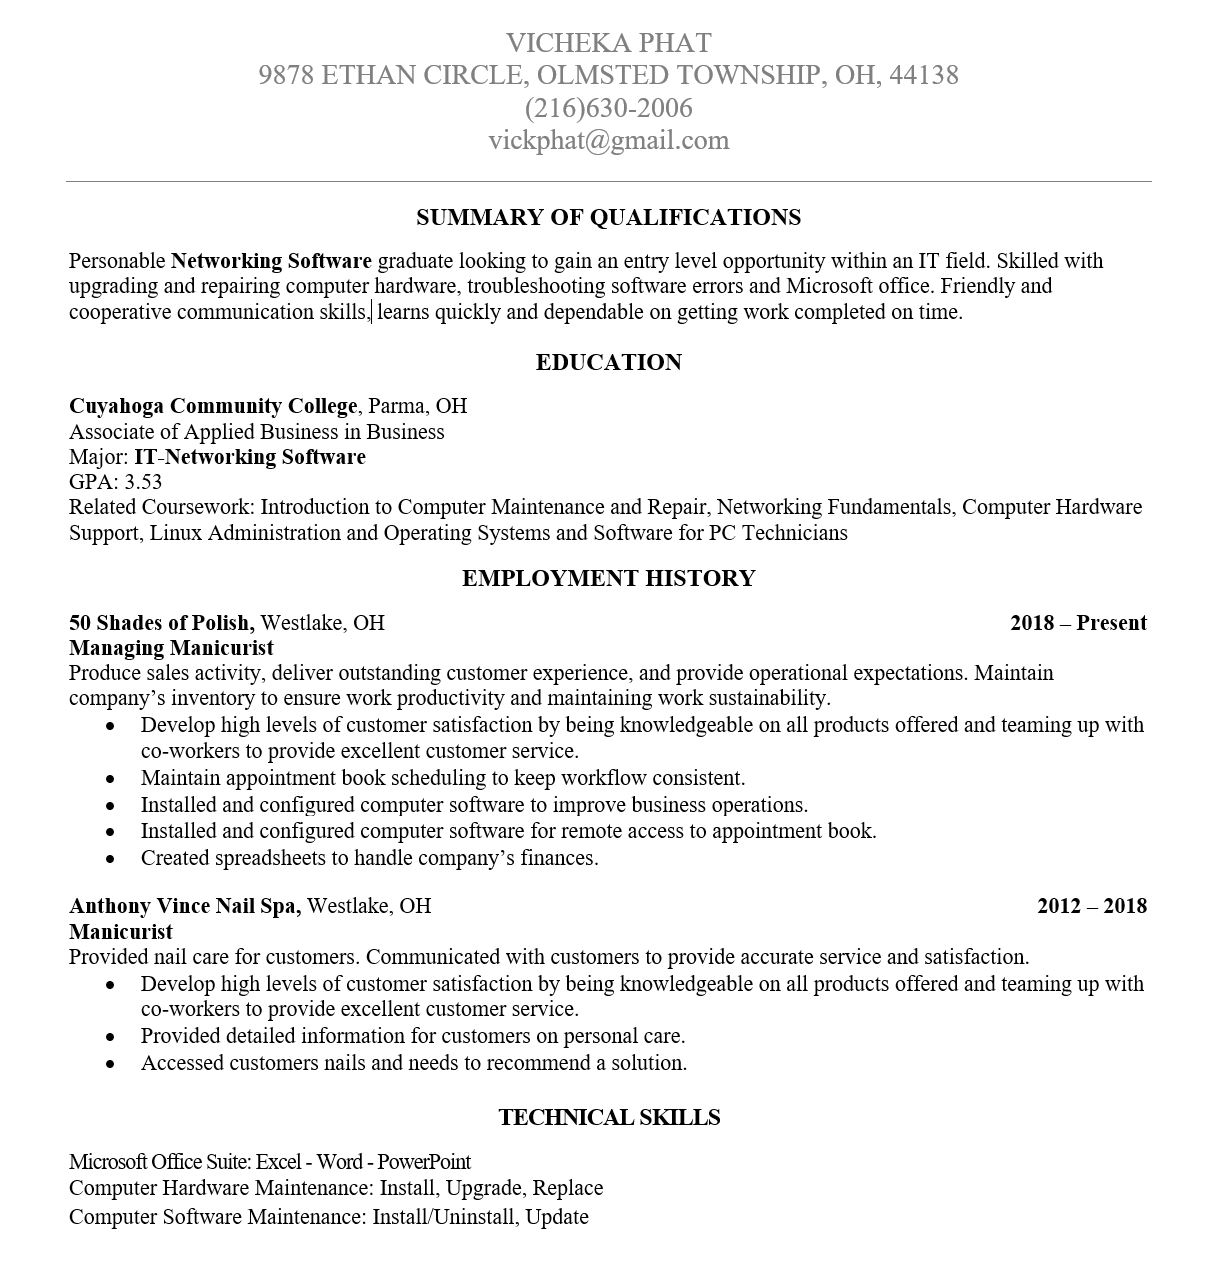
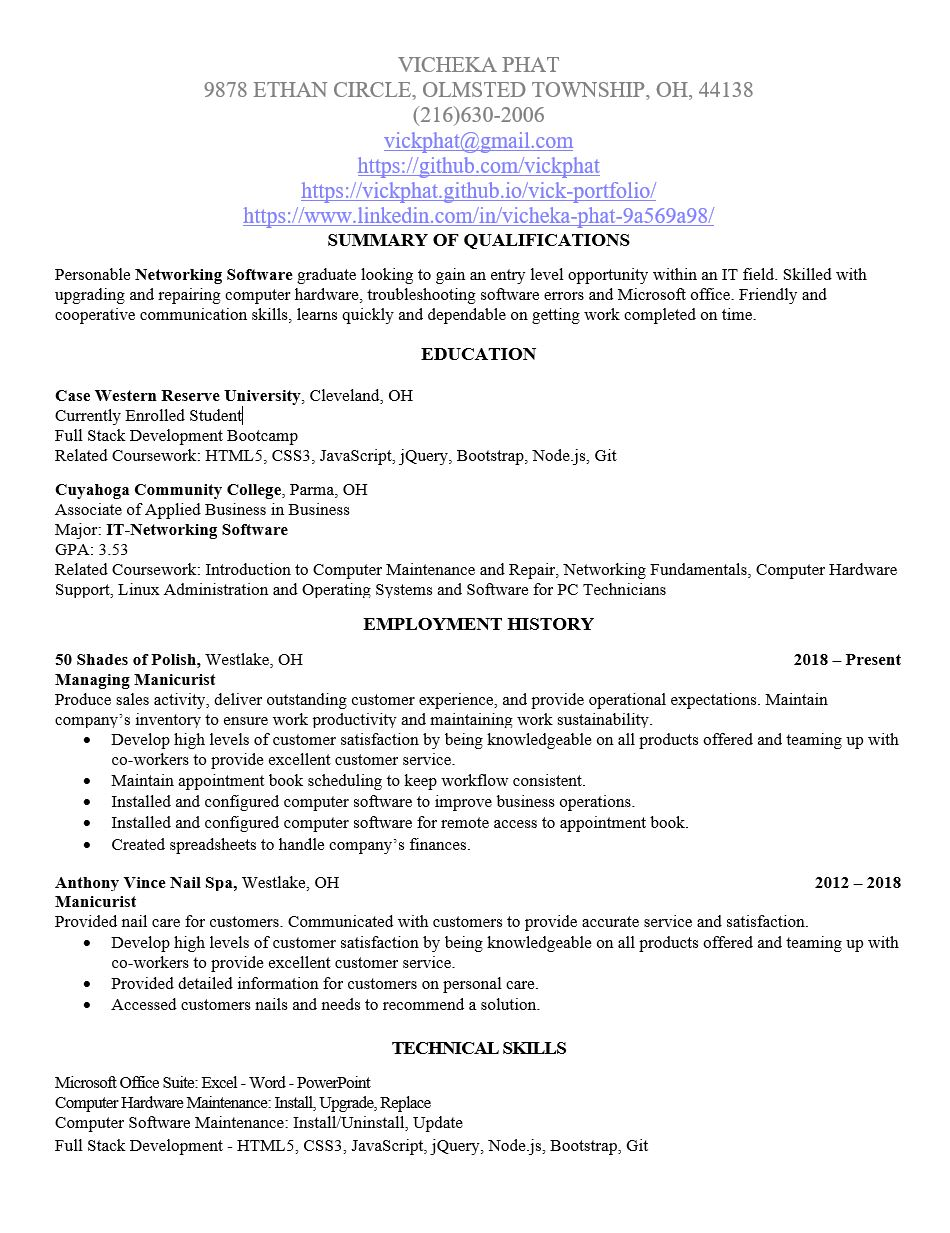
updated resume and fixed resume PDF link

Changed region(s): [[0.0611, 0.3082, 0.9463, 0.9554], [0.0611, 0.0308, 0.9158, 0.3082], [0.58, 0.9246, 0.6716, 0.9554]]

diff --git a/resume.html b/resume.html
@@ -60,10 +60,14 @@
                 <section id="Resume" class="info-style">
                     <img src="./Assets/images/resume.JPG" class="img-fluid bg-dark" style="max-width: 60rem;"
                         alt="Responsive image">
+                    <img src="./Assets/images/resume2.JPG" class="img-fluid bg-dark" style="max-width: 60rem;"
+                        alt="Responsive image">
                 </section>
                 <div>
                     <p class="text-center">Please use the following link to download my resume:
-                       <a href="https://drive.google.com/file/d/1JCAFSnnI3DQBTffwxizFs3ztB9wFmS0b/view?usp=sharing">Resume</a> </p>
+                        <a
+                            href="https://drive.google.com/file/d/1AFykob_y_QZElHbgHCOqd4yIrxUY0w2S/view?usp=sharing" target="blank">Resume</a>
+                    </p>
                 </div>
             </div>
         </main>

diff --git a/README.md b/README.md
@@ -18,25 +18,25 @@ For this homework assignment, I was tasked with creating a portfolio page.
     * WHEN I resize the page or view the site on various screens and devices
     * THEN I am presented with a responsive layout that adapts to my viewport
 
-<br>
+
 <h2>What I Did</h2>
 I decided to keep my portfolio nice and simple. I decided to do a color scheme 
 of red, black and grey with the text being white. I put my name in the top left corner with a red background to make it stand out a bit more. I also put my navigation links for the portfolio up there as well on the right hand side. With the links, when the mouse hovers over it, it creates a red and blue border around it to highlight which link will be clicked. 
-<br>
+
 After that, I put my most recent picture under my name. It then goes into my first section which is the "About Me" section. Under that section, I put my "Work" section. According to the acceptance criteria, I made the first application image bigger than the rest. Also, in the mock up, it seemed that there was a glow effect while hovering over the image. I have added that into my code as well. As of right now, I have not done any applications yet. Hence, I will be placing placeholder images. Also, to test that the images are clickable and will take me to another site, I am using google as the link source. In the future, when I start developing applications, I will update this portfolio images and links. The third section will be my "Contact" section. In this section, I placed my email, phone number, github link and a LinkedIn. I did not put a link for my LinkedIn page as I have not updated it yet. Finally, the last section is the resume section. I have added my resume in this section. However, after this bootcamp, I 
 will update my resume. 
-<br>
+
 I added media queries into my CSS to give my portfolio a reponsive layout. 
 
-<br>
+
 <h2>Portfolio Screenshots</h2>
-<br>
+
 
 <img src="https://github.com/vickphat/vick-portfolio/blob/master/Assets/images/portfolio-screenshot1.JPG">
 <img src="https://github.com/vickphat/vick-portfolio/blob/master/Assets/images/portfolio-screenshot2.JPG">
 <img src="https://github.com/vickphat/vick-portfolio/blob/master/Assets/images/portfolio-screenshot3.JPG">
 <img src="https://github.com/vickphat/vick-portfolio/blob/master/Assets/images/portfolio-screenshot4.JPG">
 
-<br>
+
 <h2>Link To Portfolio</h2>
 https://vickphat.github.io/vick-portfolio/
